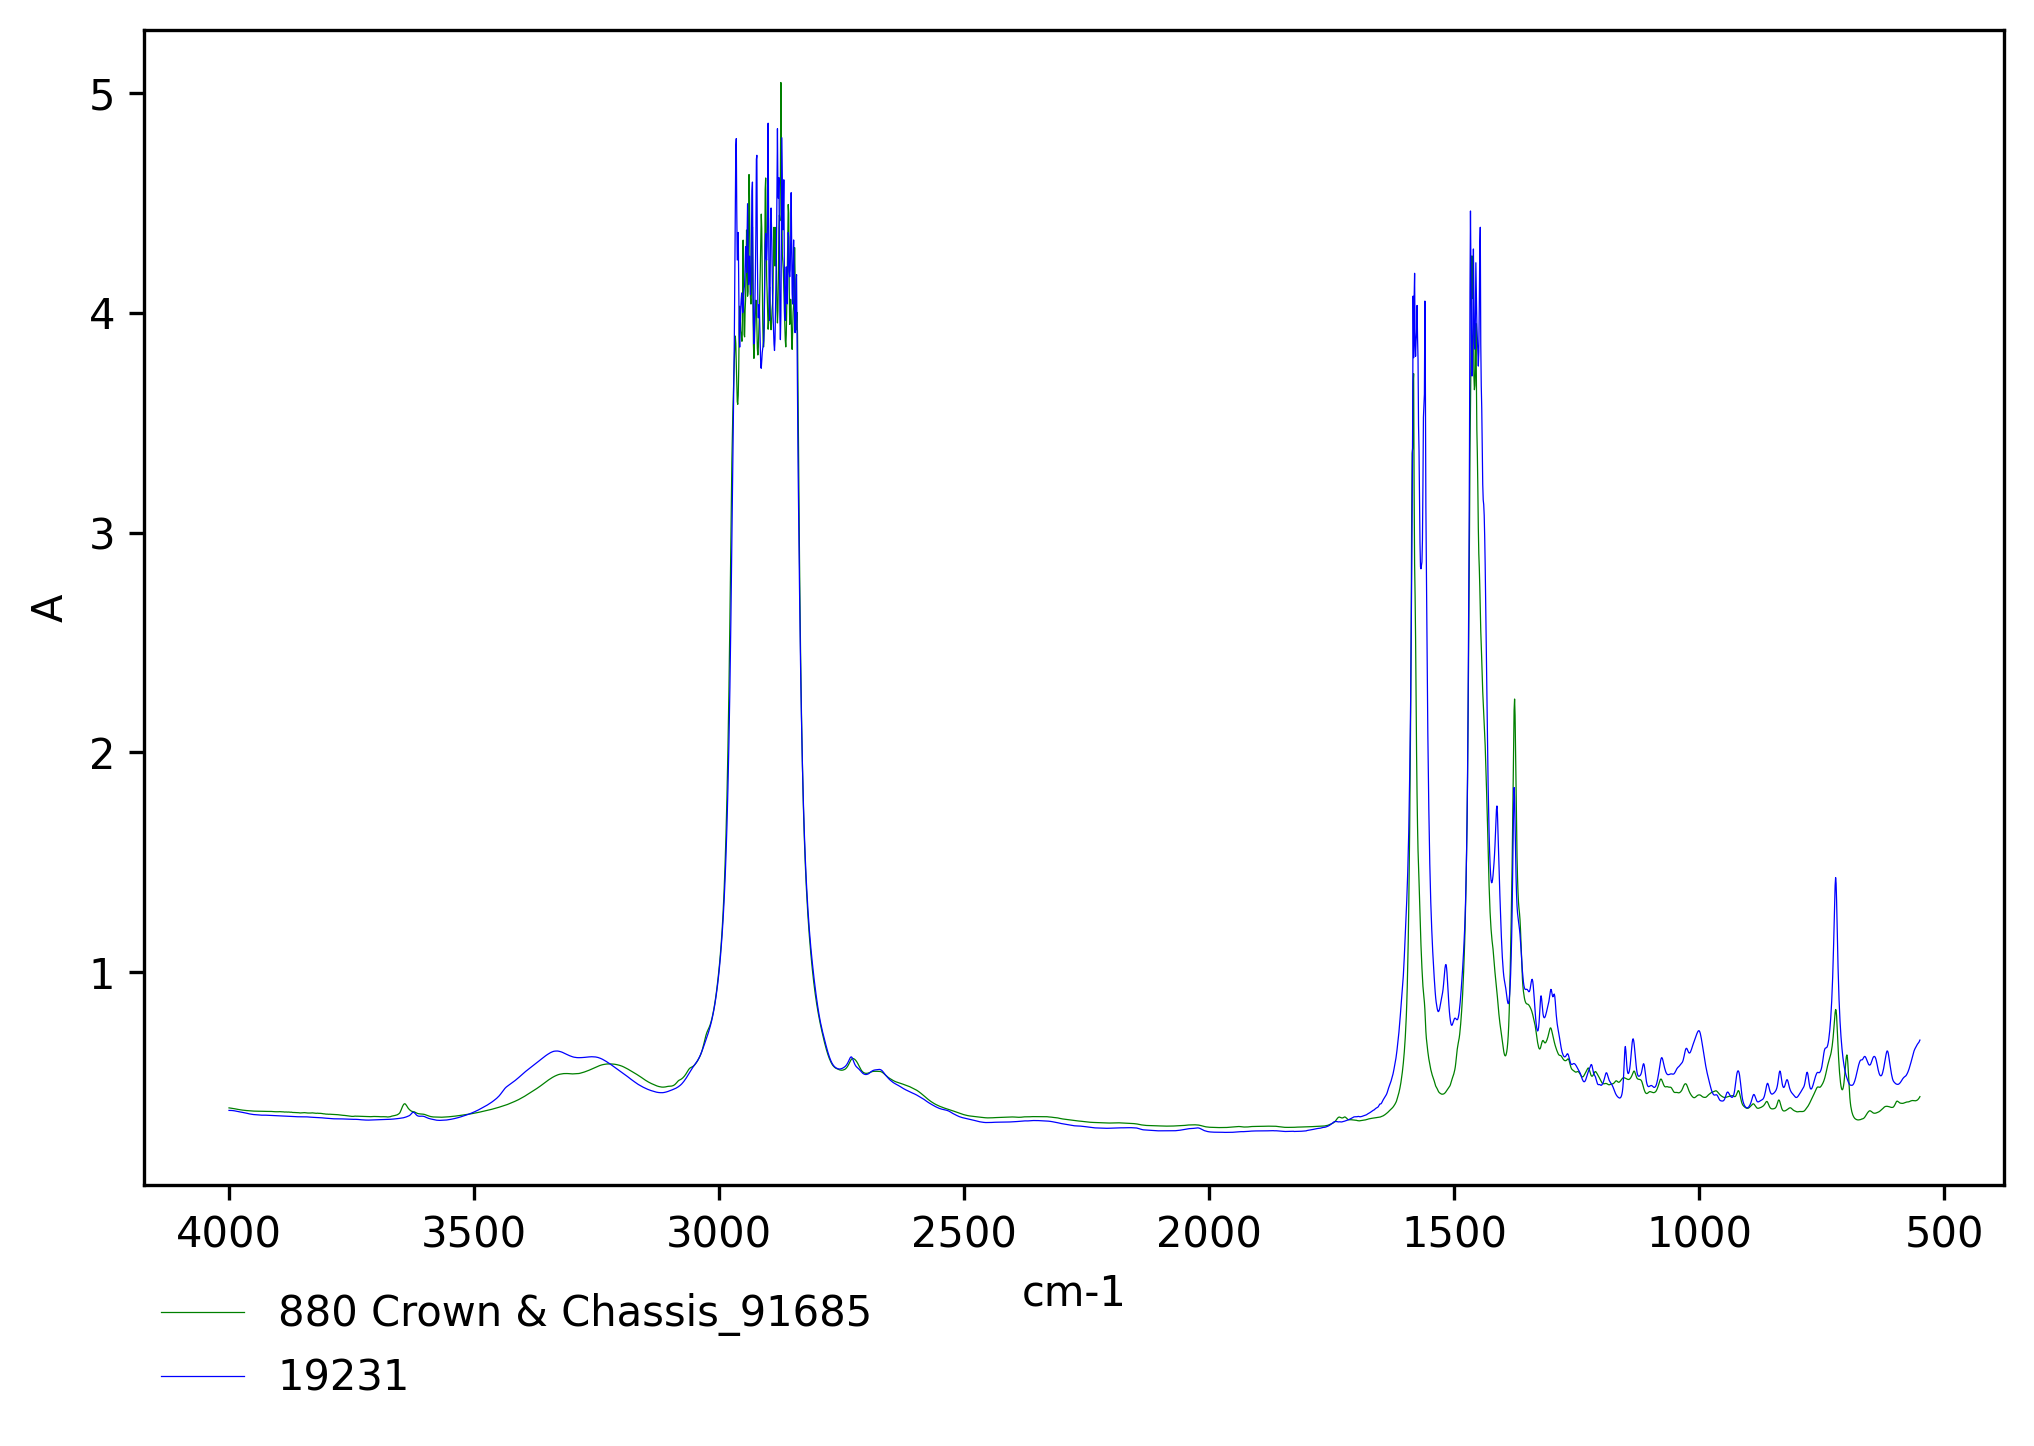
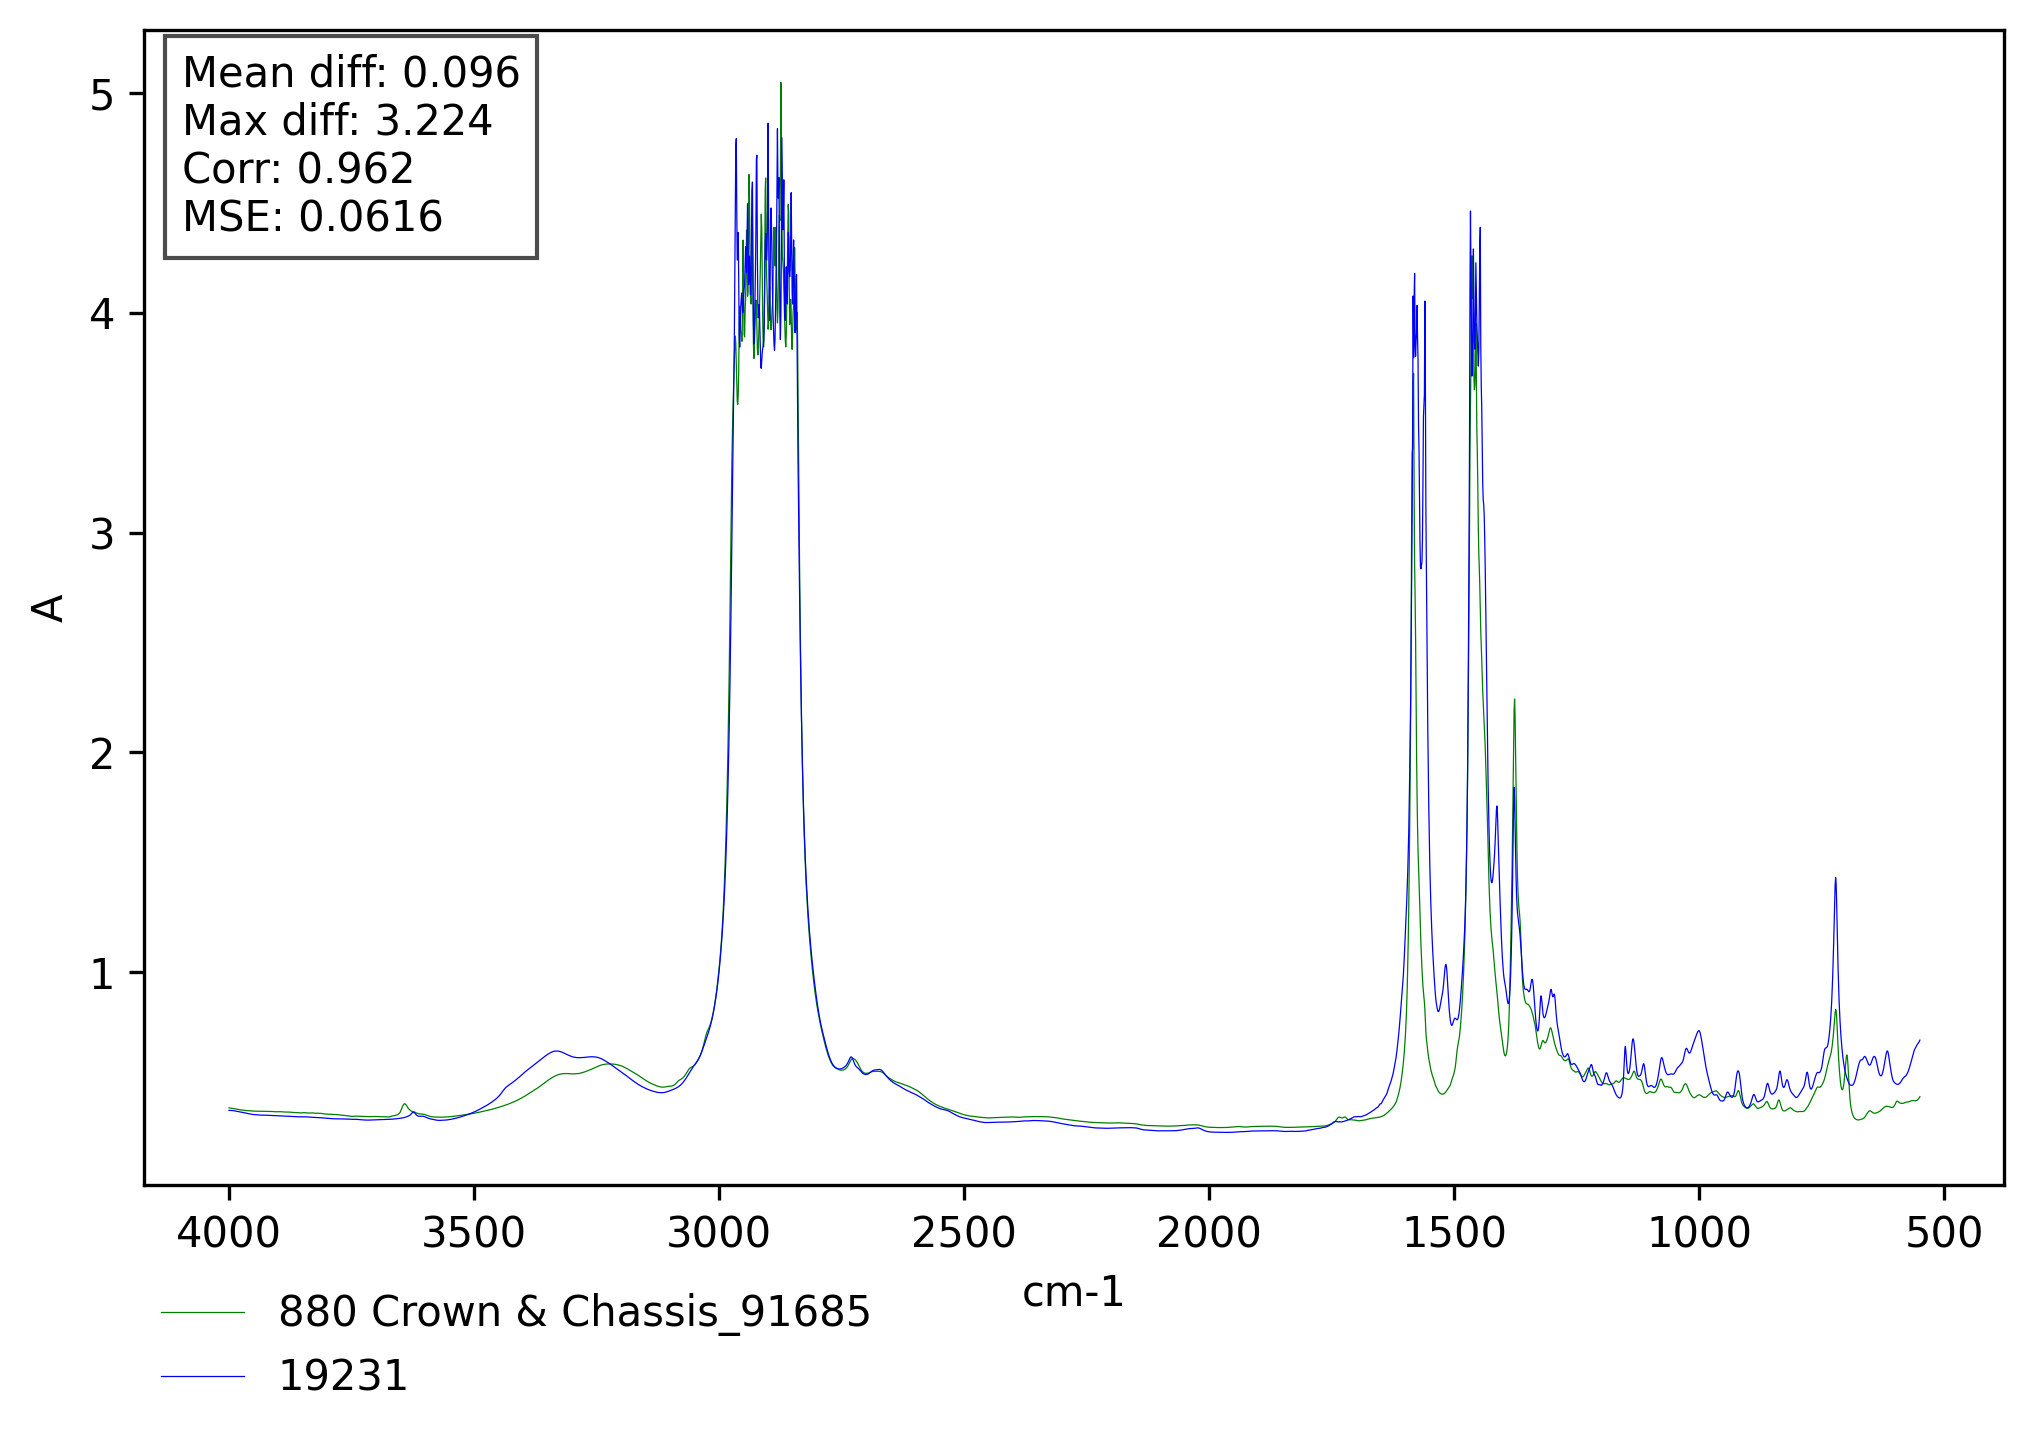
Updated plotter

Changed region(s): [[0.0929, 0.0311, 0.2788, 0.1867]]

diff --git a/ycpHacks/grease_plotter/utils/plotting.py b/ycpHacks/grease_plotter/utils/plotting.py
@@ -34,6 +34,12 @@ def generate_plot(baseline_path, sample_path, output_path):
     mean_diff = np.mean(diff)
     max_diff = np.max(diff)
 
+    # Correlation coefficient
+    corr = np.corrcoef(y_baseline, y_sample)[0, 1]
+
+    # Mean Squared Error
+    mse = np.mean((y_baseline - y_sample) ** 2)
+
     text = (f"Mean diff: {mean_diff:.3f}\n"
             f"Max diff: {max_diff:.3f}\n"
             f"Corr: {corr:.3f}\n"
@@ -53,4 +59,4 @@ def generate_plot(baseline_path, sample_path, output_path):
     # Save to output path
     fig.savefig(output_path, format='png', dpi=300, bbox_inches='tight')
     plt.close(fig)
-    print(f"✅ Saved plot to {output_path}")
+    print(f" Saved plot to {output_path}")

diff --git a/ycpHacks/grease_plotter/app.py b/ycpHacks/grease_plotter/app.py
@@ -5,7 +5,7 @@ from flask import Flask, request, jsonify, send_from_directory, render_template
 import pandas as pd
 import matplotlib
 
-from YCPHacks2025_MRGLabs.ycpHacks.grease_plotter.utils.plotting import generate_plot
+from utils.plotting import generate_plot
 
 matplotlib.use('Agg')
 import matplotlib.pyplot as plt
